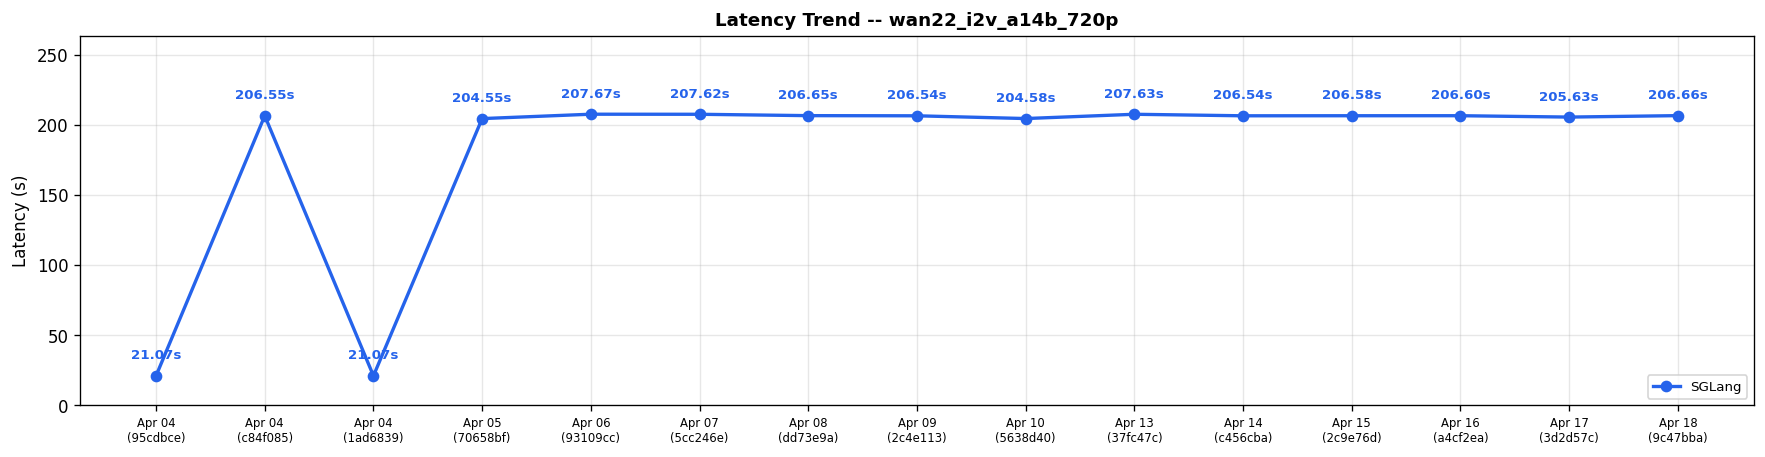
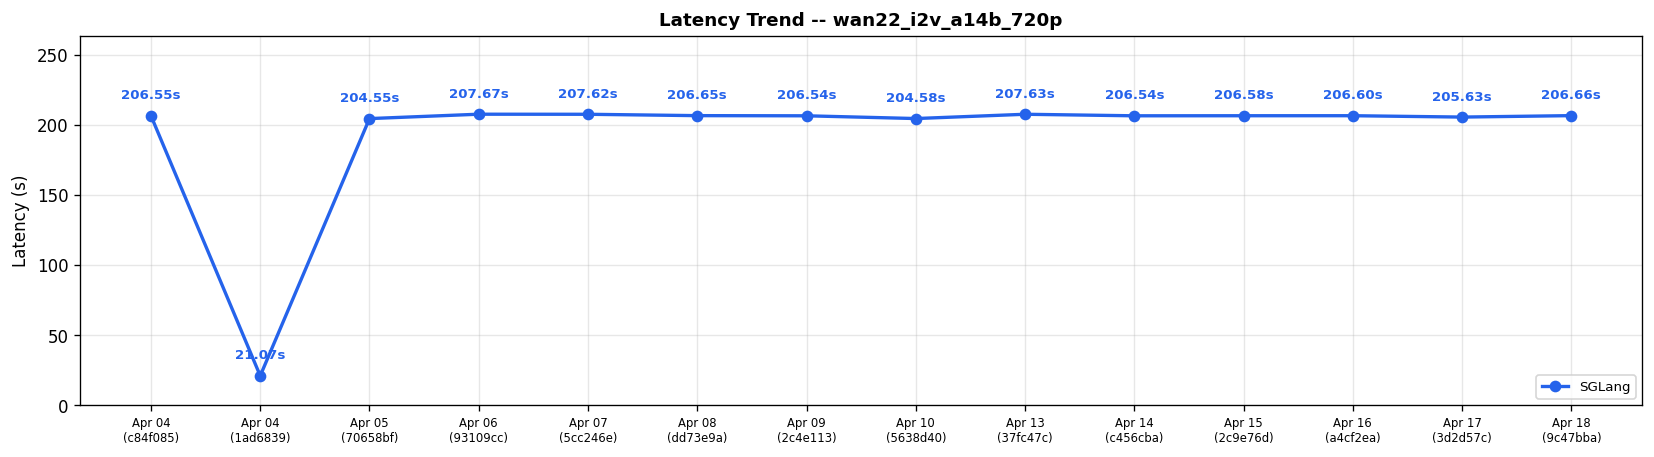
Diffusion comparison results for run 24810524606 (#577)

diff --git a/diffusion-comparisons/dashboard.md b/diffusion-comparisons/dashboard.md
@@ -1,21 +1,27 @@
 # Diffusion Cross-Framework Performance Dashboard
 
-*Generated: Apr 18 | Commit: `9c47bba`*
+*Generated: Apr 23 | Commit: `c689f77`*
+
+> [!WARNING]
+> **Performance Regression Detected**
+>
+> - **ltx2_twostage_t2v** (sglang): 15.32s -> 16.75s (+9.3%)
+
 
 ## Cross-Framework Performance Comparison
 
 | Model | Risk | sglang (s) |
 |-------|------|---------|
-| FLUX.1-dev | ✅ | **6.68** |
-| FLUX.2-dev | ✅ | **22.82** |
-| Qwen-Image-2512 | ✅ | **13.13** |
-| Qwen-Image-Edit-2511 | ✅ | **23.78** |
-| Z-Image-Turbo | ✅ | **0.89** |
-| Wan2.2-T2V-A14B-Diffusers | ✅ | **210.45** |
-| Wan2.2-TI2V-5B-Diffusers | ✅ | **62.17** |
-| LTX-2 | ✅ | **15.32** |
-| LTX-2.3 | ✅ | **60.19** |
-| Wan2.2-I2V-A14B-Diffusers | ✅ | **206.66** |
+| FLUX.1-dev | ✅ | **6.60** |
+| FLUX.2-dev | ✅ | **22.62** |
+| Qwen-Image-2512 | ✅ | **13.03** |
+| Qwen-Image-Edit-2511 | ✅ | **23.68** |
+| Z-Image-Turbo | ✅ | **0.88** |
+| Wan2.2-T2V-A14B-Diffusers | ❌ | N/A |
+| Wan2.2-TI2V-5B-Diffusers | ❌ | N/A |
+| LTX-2 | ⚠ | **16.75** |
+| LTX-2.3 | ✅ | **58.19** |
+| Wan2.2-I2V-A14B-Diffusers | ❌ | N/A |
 
 ### Latency Trend: flux1_dev_t2i_1024
 
@@ -71,6 +77,7 @@
 
 | Date | Commit | flux1_dev_t2i_1024 (s) | flux2_dev_t2i_1024 (s) | qwen_image_2512_t2i_1024 (s) | qwen_image_edit_2511 (s) | zimage_turbo_t2i_1024 (s) | wan22_t2v_a14b_720p (s) | wan22_ti2v_5b_720p (s) | ltx2_twostage_t2v (s) | ltx2.3_twostage_ti2v_2gpus (s) | wan22_i2v_a14b_720p (s) | Trend |
 |------|--------|---------|---------|---------|---------|---------|---------|---------|---------|---------|---------|-------|
+| Apr 23 | `c689f77` | 6.60 | 22.62 | 13.03 | 23.68 | 0.88 | N/A | N/A | 16.75 | 58.19 | N/A | :left_right_arrow:  :left_right_arrow:  :left_right_arrow:  :left_right_arrow:  :left_right_arrow:    :arrow_up:  :arrow_down:  |
 | Apr 18 | `9c47bba` | 6.68 | 22.82 | 13.13 | 23.78 | 0.89 | 210.45 | 62.17 | 15.32 | 60.19 | 206.66 | :left_right_arrow:  :left_right_arrow:  :left_right_arrow:  :left_right_arrow:  :left_right_arrow:  :left_right_arrow:  :left_right_arrow:  :left_right_arrow:  :arrow_down:  :left_right_arrow: |
 | Apr 17 | `3d2d57c` | 6.69 | 22.82 | 13.12 | 23.80 | 0.89 | 210.28 | 62.19 | 15.47 | 62.20 | 205.63 | :left_right_arrow:  :left_right_arrow:  :arrow_down:  :left_right_arrow:  :left_right_arrow:  :left_right_arrow:  :left_right_arrow:  :arrow_up:  :arrow_up:  :left_right_arrow: |
 | Apr 16 | `a4cf2ea` | 6.70 | 22.90 | 14.08 | 23.93 | 0.89 | 210.73 | 62.15 | 14.86 | 59.20 | 206.60 | :left_right_arrow:  :left_right_arrow:  :arrow_up:  :left_right_arrow:  :left_right_arrow:  :left_right_arrow:  :left_right_arrow:  :left_right_arrow:   :left_right_arrow: |
@@ -84,8 +91,17 @@
 | Apr 06 | `93109cc` | 6.70 | 22.86 | 13.61 | 23.92 | 0.89 | 210.73 | 62.15 | 14.13 | N/A | 207.67 | :left_right_arrow:  :left_right_arrow:  :arrow_down:  :left_right_arrow:  :left_right_arrow:  :left_right_arrow:  :left_right_arrow:  :left_right_arrow:   :left_right_arrow: |
 | Apr 05 | `70658bf` | 6.68 | 22.80 | 14.12 | 23.80 | 0.88 | 209.31 | 62.15 | 14.06 | N/A | 204.55 | :left_right_arrow:  :left_right_arrow:  :arrow_up:  :arrow_down:  :left_right_arrow:  :arrow_up:  :arrow_down:    :arrow_up: |
 | Apr 04 | `1ad6839` | 6.71 | 22.85 | 13.56 | 29.57 | 0.89 | 16.10 | 64.20 | N/A | N/A | 21.07 | :arrow_down:  :left_right_arrow:  :arrow_up:  :arrow_up:  :arrow_down:  :arrow_down:  :arrow_up:    :arrow_down: |
-| Apr 04 | `c84f085` | 6.86 | 22.87 | 13.16 | 23.95 | 0.93 | 210.88 | 62.21 | 14.89 | N/A | 206.55 | :arrow_up:  :left_right_arrow:  :arrow_down:  :arrow_down:  :left_right_arrow:  :arrow_up:  :left_right_arrow:    :arrow_up: |
-| Apr 04 | `95cdbce` | 6.68 | 22.80 | 13.51 | 29.41 | 0.93 | 16.14 | 63.19 | N/A | N/A | 21.07 | -- |
+| Apr 04 | `c84f085` | 6.86 | 22.87 | 13.16 | 23.95 | 0.93 | 210.88 | 62.21 | 14.89 | N/A | 206.55 | -- |
+
+> [!CAUTION]
+> **Action Required — Performance Alert**
+>
+> The following cases need attention:
+> - wan22_t2v_a14b_720p: SGLang latency is N/A (broken)
+> - wan22_ti2v_5b_720p: SGLang latency is N/A (broken)
+> - ltx2_twostage_t2v: SGLang regression +10.1% vs 3-run avg (16.75s vs 15.21s)
+> - wan22_i2v_a14b_720p: SGLang latency is N/A (broken)
+
 
 ---
 *Generated by `generate_diffusion_dashboard.py` in SGLang nightly CI.*
